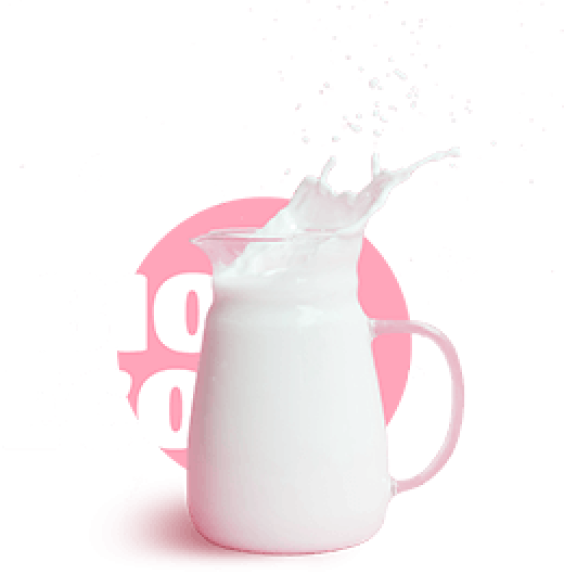
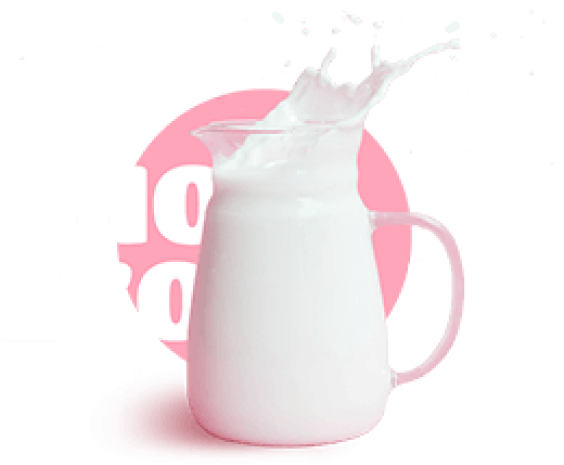
fixed decor 1

Changed region(s): [[0.211, 0.1204, 0.844, 0.9935], [0.6631, 0.9032, 0.6933, 0.9333]]

diff --git a/css/style.css b/css/style.css
@@ -319,6 +319,7 @@ body {
   display: flex;
   justify-content: space-between;
   flex-wrap: wrap;
+  padding-bottom: 20px;
 }
 .hero__column {
 }
@@ -385,12 +386,6 @@ body {
   display: flex;
   justify-content: space-between;
   align-items: center;
-  position: relative;
-}
-.hero__milk {
-  position: absolute;
-  width: 400px;
-  z-index: 1;
 }
 
 /*----------------dark-button--------------*/
@@ -452,9 +447,8 @@ body {
   letter-spacing: 0.2rem;
 }
 .hero__decor {
-  padding-top: 120px;
   margin-right: -35px;
-  justify-content: flex-end;
+  justify-content: flex-start;
   width: 188px;
 }
 /*----------------hero decor circle end--------------*/
@@ -468,6 +462,13 @@ body {
   align-self: flex-start;
   position: relative;
   padding-left: 175px;
+  position: relative;
+}
+.hero__milk {
+  z-index: 0;
+  position: absolute;
+  bottom: 80px;
+  width: 250px;
 }
 .accordion:hover .accordion-content {
   max-height: 200px;
@@ -544,11 +545,15 @@ body {
     width: 265px;
   }
   .accordion {
-    margin-top: 55px;
+    margin-top: 25px;
     padding-left: 0;
   }
   .accordion-inner {
     max-width: 260px;
+  }
+  .hero__decor {
+    margin-right: 2px;
+    width: 150px;
   }
 }
 @media screen and (max-width: 767px) {
@@ -587,19 +592,25 @@ body {
     letter-spacing: 0.2rem;
   }
   .hero__decor {
-    padding-top: 30px;
-    padding-left: 50px;
+    margin-right: 2px;
+    width: 100px;
+  }
+  .hero__description {
+    height: 180px;
   }
   .accordion {
-    margin-top: 30px;
     display: flex;
     position: relative;
-
     display: flex;
     flex-direction: column;
     justify-content: flex-start;
     align-self: flex-start;
     position: relative;
+  }
+  .hero__milk {
+    z-index: 0;
+    position: absolute;
+    top: 470px;
   }
   .accordion-inner {
     max-width: 320px;

diff --git a/index.html b/index.html
@@ -117,9 +117,6 @@
           </div>
 
           <div class="hero__description">
-            <div class="hero__milk">
-              <img src="./img/milk-hero.png" alt="milk" class="hero__decor" />
-            </div>
             <!--accordion-->
 
             <div class="accordion">
@@ -138,6 +135,10 @@
             </div>
 
             <!--accordion end-->
+
+            <div class="hero__milk">
+              <img src="./img/milk-hero.png" alt="milk" class="hero__decor" />
+            </div>
 
             <!--circle decor-->
 
